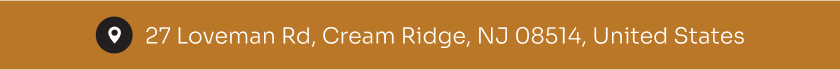
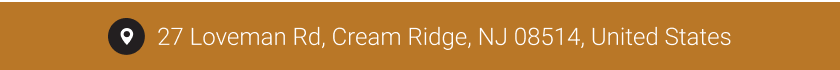
Added new font family

Changed region(s): [[0.0929, 0.2286, 0.8976, 0.8], [0.0, 0.9714, 1.0, 1.0], [0.0, 0.0, 1.0, 0.0286]]

diff --git a/old-index.html b/old-index.html
@@ -3,35 +3,42 @@
 <head>
     <meta charset="UTF-8" />
     <meta name="viewport" content="width=device-width, initial-scale=1.0" />
-    <link rel="preconnect" href="https://fonts.googleapis.com">
-    <link rel="preconnect" href="https://fonts.gstatic.com" crossorigin>
-    <link href="https://fonts.googleapis.com/css2?family=Roboto:wght@300;400;500;700&display=swap" rel="stylesheet">
+    <link rel="preconnect" href="https://fonts.googleapis.com" />
+    <link rel="preconnect" href="https://fonts.gstatic.com" crossorigin />
+    <link href="https://fonts.googleapis.com/css2?family=Sora:wght@300;600;700&display=swap" rel="stylesheet" />
+    <style>
+        body{
+            display: grid;
+            place-items: center;
+            min-height: 100vh;
+        }
+    </style>
 </head>
 <body style="margin: 0;">
     <table border="0" cellspacing="0" cellpadding="0" width="420" style="width: 420px;">
         <tr>
             <td style="padding-bottom: 11px;">
-                <p style="color: #231F20; font-size: 21pt; font-family: 'Roboto', sans-serif; margin: 0;">
+                <p style="color: #231F20; font-size: 19pt; font-family: 'Sora', serif; margin: 0;">
                     <strong style="font-weight: 700;">Raymond Kauffman</strong>
                 </p>
-                <p style="color: #B97727; font-size: 11pt; font-weight: 400; font-family: 'Roboto', sans-serif; margin-top: 4px; margin-bottom: 20px;">
+                <p style="color: #B97727; font-size: 10.5pt; font-weight: 300; font-family: 'Sora', serif; margin-top: 4px; margin-bottom: 20px;">
                     Managing Director
                 </p>
                 <table border="0" cellspacing="0" cellpadding="0" width="100%" style="width: 100%;">
                     <tr>
                         <td style="vertical-align: bottom;">
-                            <p style="color: #231F20; font-size: 11pt; font-family: 'Roboto', sans-serif; line-height: 1.5; margin: 0;">
-                                <strong style="font-weight: 500;">Phone:</strong>
+                            <p style="color: #231F20; font-size: 10.5pt; font-family: 'Sora', serif; line-height: 1.5; margin: 0;">
+                                <strong style="font-weight: 600;">Phone:</strong>
                                 <a href="tel:(609) 757-2878" target="_blank" title="Phone" style="color: #231F20; font-weight: 300; text-decoration: none !important;">
                                     <span style="color: #231F20; text-decoration: none !important;">(609) 757-2878</span>
                                 </a>
                                 <br>
-                                <strong style="font-weight: 500;">Email:</strong>
+                                <strong style="font-weight: 600;">Email:</strong>
                                 <a href="mailto:sales@tristatesupplies.biz" target="_blank" title="Email" style="color: #231F20; font-weight: 300; text-decoration: none !important;">
                                     <span style="color: #231F20; text-decoration: none !important;">sales@tristatesupplies.biz</span>
                                 </a>
                                 <br>
-                                <strong style="font-weight: 500;">Web:</strong>
+                                <strong style="font-weight: 600;">Web:</strong>
                                 <a href="https://www.tristatesupplies.biz/" target="_blank" title="Website" style="color: #231F20; font-weight: 300; text-decoration: none !important;">
                                     <span style="color: #231F20; text-decoration: none !important;">www.tristatesupplies.biz</span>
                                 </a>
@@ -61,7 +68,7 @@
             <td>
                 <img src="https://developer-zahid.github.io/Tri-State-Supplies-Email-Signature/images/banner.png" alt="Brand Logo" width="420" height="114" style="display: block; width: 420px;" />
                 <a href="https://maps.app.goo.gl/Xgyf3Kzba1C2e2edA" target="_blank" title="Address">
-                    <img src="https://developer-zahid.github.io/Tri-State-Supplies-Email-Signature/images/address.png" alt="address" width="420" height="35" style="display: block; width: 420px;" />
+                    <img src="https://developer-zahid.github.io/Tri-State-Supplies-Email-Signature/images/old-address.png" alt="address" width="420" height="35" style="display: block; width: 420px;" />
                 </a>
             </td>
         </tr>

diff --git a/index.html b/index.html
@@ -3,9 +3,9 @@
 <head>
     <meta charset="UTF-8" />
     <meta name="viewport" content="width=device-width, initial-scale=1.0" />
-    <link rel="preconnect" href="https://fonts.googleapis.com" />
-    <link rel="preconnect" href="https://fonts.gstatic.com" crossorigin />
-    <link href="https://fonts.googleapis.com/css2?family=Sora:wght@300;600;700&display=swap" rel="stylesheet" />
+    <link rel="preconnect" href="https://fonts.googleapis.com">
+    <link rel="preconnect" href="https://fonts.gstatic.com" crossorigin>
+    <link href="https://fonts.googleapis.com/css2?family=Roboto:wght@300;400;500;700&display=swap" rel="stylesheet">
     <style>
         body{
             display: grid;
@@ -18,27 +18,27 @@
     <table border="0" cellspacing="0" cellpadding="0" width="420" style="width: 420px;">
         <tr>
             <td style="padding-bottom: 11px;">
-                <p style="color: #231F20; font-size: 19pt; font-family: 'Sora', serif; margin: 0;">
+                <p style="color: #231F20; font-size: 21pt; font-family: 'Roboto', sans-serif; margin: 0;">
                     <strong style="font-weight: 700;">Raymond Kauffman</strong>
                 </p>
-                <p style="color: #B97727; font-size: 10.5pt; font-weight: 300; font-family: 'Sora', serif; margin-top: 4px; margin-bottom: 20px;">
+                <p style="color: #B97727; font-size: 11pt; font-weight: 400; font-family: 'Roboto', sans-serif; margin-top: 4px; margin-bottom: 20px;">
                     Managing Director
                 </p>
                 <table border="0" cellspacing="0" cellpadding="0" width="100%" style="width: 100%;">
                     <tr>
                         <td style="vertical-align: bottom;">
-                            <p style="color: #231F20; font-size: 10.5pt; font-family: 'Sora', serif; line-height: 1.5; margin: 0;">
-                                <strong style="font-weight: 600;">Phone:</strong>
+                            <p style="color: #231F20; font-size: 11pt; font-family: 'Roboto', sans-serif; line-height: 1.5; margin: 0;">
+                                <strong style="font-weight: 500;">Phone:</strong>
                                 <a href="tel:(609) 757-2878" target="_blank" title="Phone" style="color: #231F20; font-weight: 300; text-decoration: none !important;">
                                     <span style="color: #231F20; text-decoration: none !important;">(609) 757-2878</span>
                                 </a>
                                 <br>
-                                <strong style="font-weight: 600;">Email:</strong>
+                                <strong style="font-weight: 500;">Email:</strong>
                                 <a href="mailto:sales@tristatesupplies.biz" target="_blank" title="Email" style="color: #231F20; font-weight: 300; text-decoration: none !important;">
                                     <span style="color: #231F20; text-decoration: none !important;">sales@tristatesupplies.biz</span>
                                 </a>
                                 <br>
-                                <strong style="font-weight: 600;">Web:</strong>
+                                <strong style="font-weight: 500;">Web:</strong>
                                 <a href="https://www.tristatesupplies.biz/" target="_blank" title="Website" style="color: #231F20; font-weight: 300; text-decoration: none !important;">
                                     <span style="color: #231F20; text-decoration: none !important;">www.tristatesupplies.biz</span>
                                 </a>
